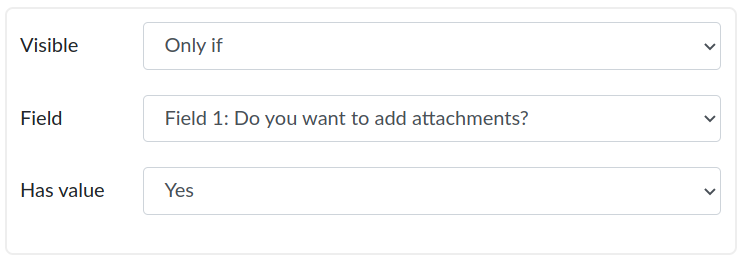
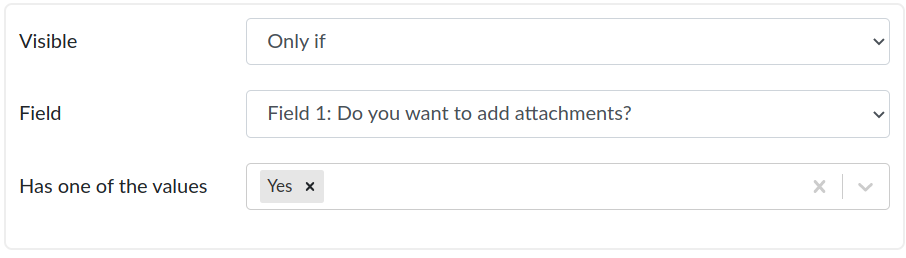
doc: update manual

diff --git a/manual/owner.md b/manual/owner.md
@@ -77,7 +77,7 @@ You can create fields that are hidden or shown to the applicant depending on the
 
 For example, you can create an option list “Do you want to add attachments?” Yes - No. If the applicant chooses “Yes” the attachment field is shown to the applicant. If they choose “No” they will not see the attachment field.
 
-:exclamation: Note! Conditional fields only work with Option list.
+:exclamation: Note! Conditional fields only work with Option list and Multiselect fields.
 
 1. Create an **Option list** and fill in the options
 
@@ -92,7 +92,7 @@ For example, you can create an option list “Do you want to add attachments?”
 ![Option list](img/optionlist4.png)
 
 4. Field: Locate the Option list you created earlier from the drop-down list
-5. Has value: Select when you want the list to be shown. In this example, Field 2 "Add one or multiple attachments" is shown if the applicant chooses the "Yes" option in Field 1, "Do you want to add attachments?".
+5. Has one of the values: Select when you want the list to be shown. In this example, Field 2 "Add one or multiple attachments" is shown if the applicant chooses the "Yes" option in Field 1, "Do you want to add attachments?".
 
 ![Option list](img/optionlist5.png)
 
